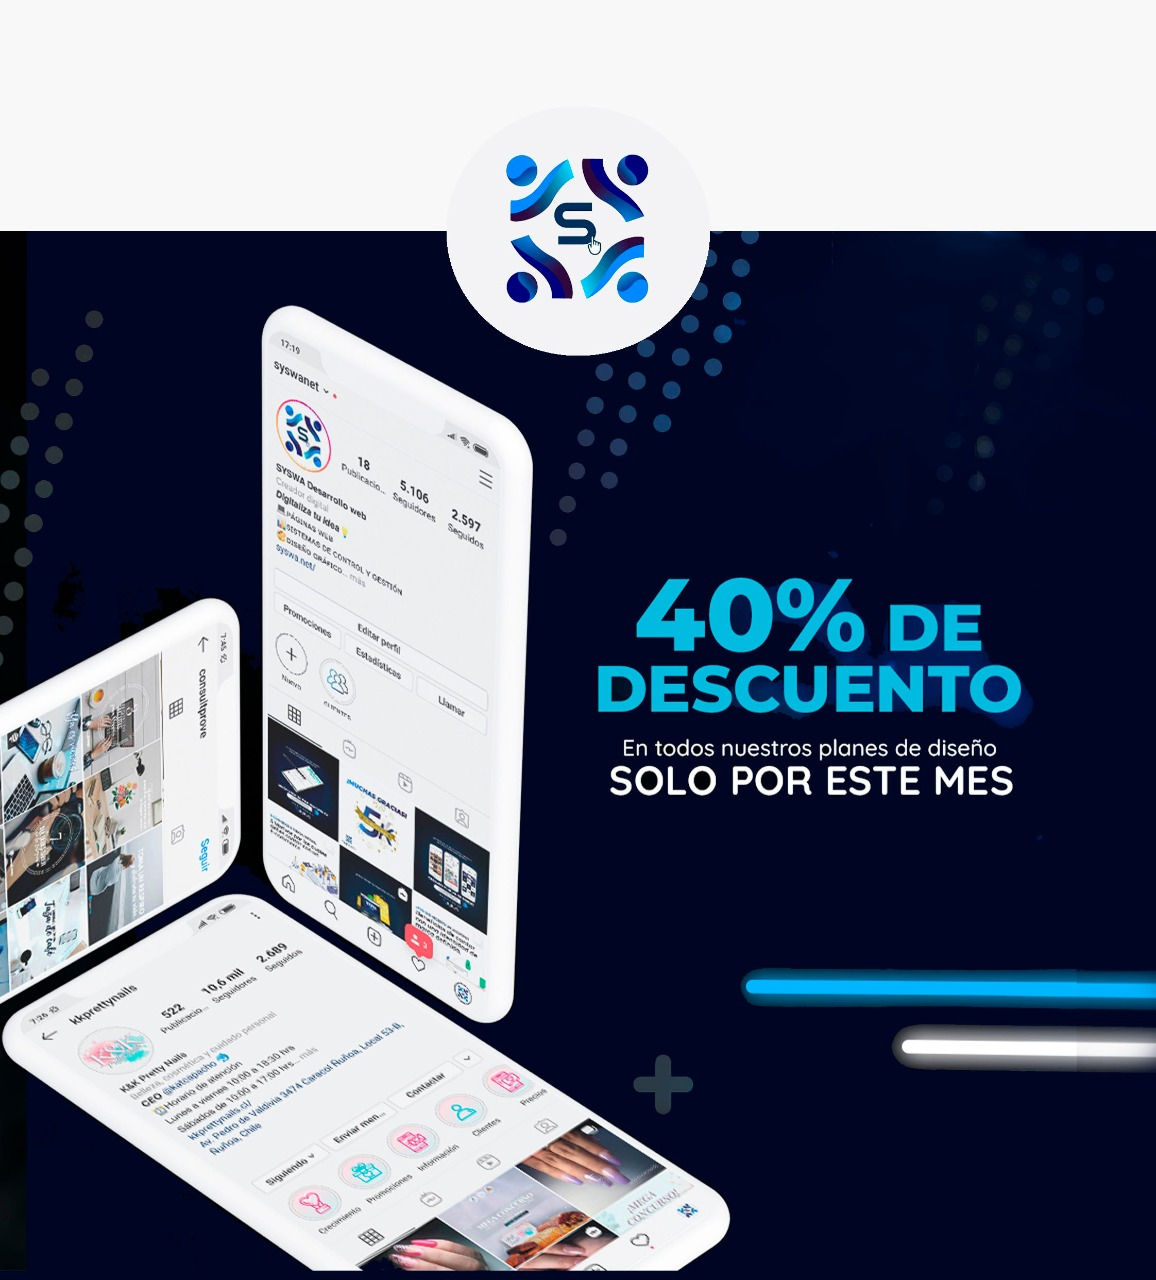
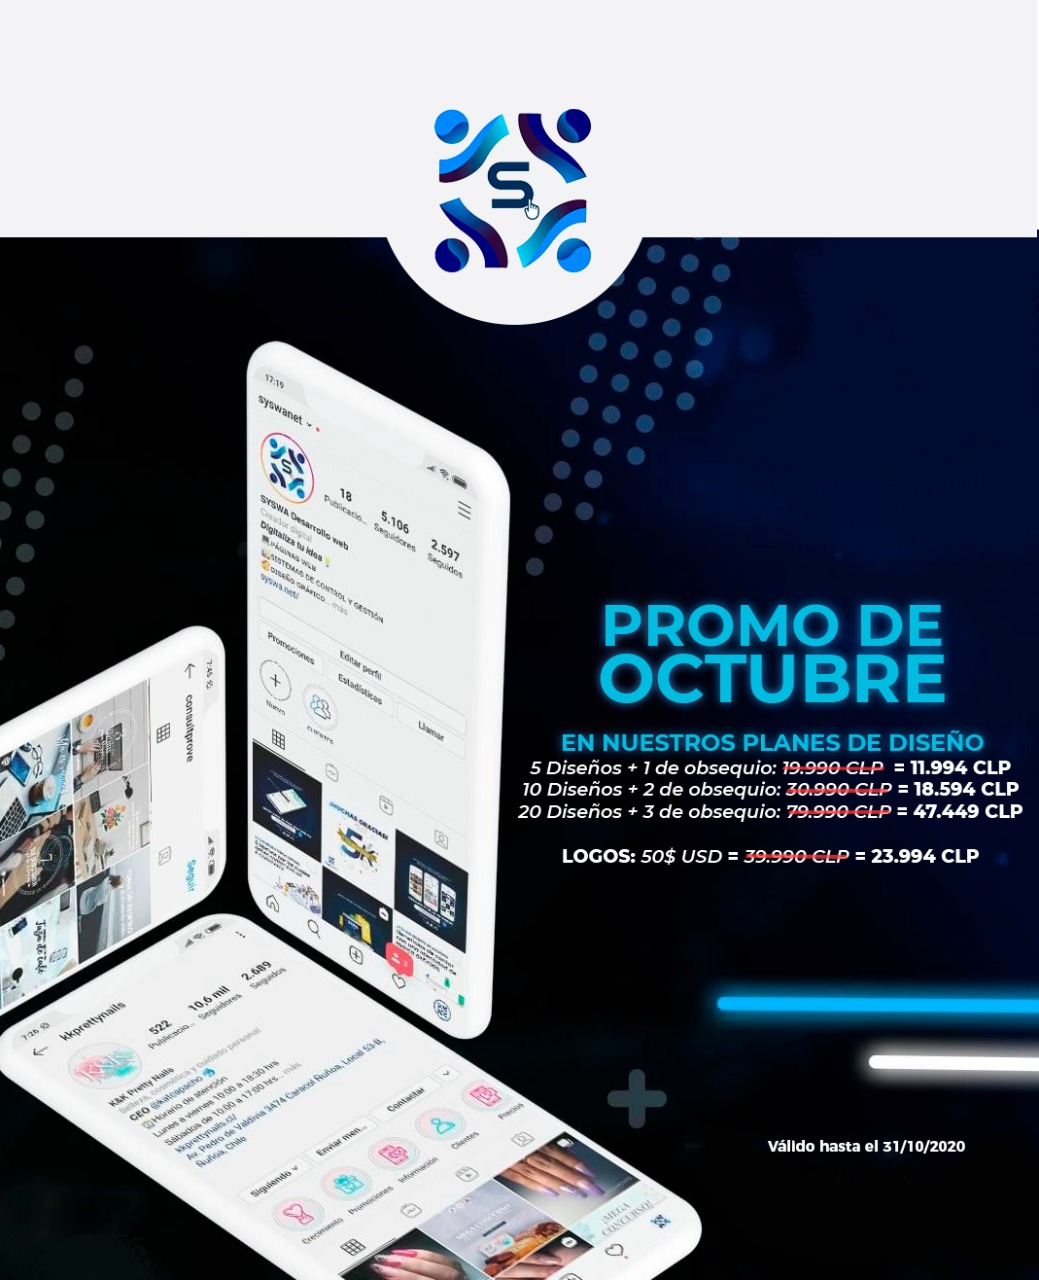
add change to promotion

diff --git a/routes/Clients.js b/routes/Clients.js
@@ -293,11 +293,12 @@ clients.post('/sendEmailsSyswa', async (req, res, next) => {
         res.send(err)
     }
 })
+// , angelacapacho64@gmail.com, cristiansleonardo@gmail.com, joqsua@gmail.com, simon.villasmil.rivero@gmail.com, ing.miguelpolanco92@gmail.com, joeyfunaro@gmail.com, pooja@rajentech.online, leannhilton@hiltonmgmt.com, s_speights@bellsouth.net, info@hiltonmgmt.com, erosvlahos@gmail.com
 
 clients.get('/sendPromotionSyswa', async (req, res) => {
     const mail = {
         from: "Syswa branding",
-        bcc: "carlos.gomes349@gmail.com, angelacapacho64@gmail.com, cristiansleonardo@gmail.com, joqsua@gmail.com, simon.villasmil.rivero@gmail.com, ing.miguelpolanco92@gmail.com, joeyfunaro@gmail.com, pooja@rajentech.online, leannhilton@hiltonmgmt.com, s_speights@bellsouth.net, info@hiltonmgmt.com, erosvlahos@gmail.com",
+        bcc: "carlos.gomes349@gmail.com",
         subject: "¡Imperdible! Aprovecha este 40% dcto. en nuestros servicios de diseño 🔥",
         html: `
             <!doctype html>
@@ -442,7 +443,7 @@ clients.get('/sendPromotionSyswa', async (req, res) => {
           <tr>
             <td style="width:600px;">
               
-      <img height="auto" src="https://s3-eu-west-1.amazonaws.com/topolio/uploads/5f6a6e46dec34/1600810616.jpg" style="border:0;display:block;outline:none;text-decoration:none;height:auto;width:100%;font-size:13px;" width="600">
+      <img height="auto" src="${imgMails}promotion.jpg" style="border:0;display:block;outline:none;text-decoration:none;height:auto;width:100%;font-size:13px;" width="600">
     
             </td>
           </tr>
@@ -586,7 +587,7 @@ clients.get('/sendPromotionSyswa', async (req, res) => {
       <table border="0" cellpadding="0" cellspacing="0" role="presentation" style="border-collapse:separate;width:auto;line-height:100%;">
         <tr>
           <td align="center" bgcolor="#00003A" role="presentation" style="border:0px solid #000;border-radius:5px;cursor:auto;mso-padding-alt:8px 40px 8px 40px;background:#00003A;" valign="middle">
-            <a href="https://instagram.com/syswanet?igshid=6n7g9jgq795g" style="display:inline-block;background:#00003A;color:#ffffff;font-family:Ubuntu, Helvetica, Arial, sans-serif, Helvetica, Arial, sans-serif;font-size:18px;font-weight:normal;line-height:100%;Margin:0;text-decoration:none;text-transform:none;padding:8px 40px 8px 40px;mso-padding-alt:0px;border-radius:5px;" target="_blank">
+            <a href="https://www.instagram.com/p/CGI72pUl5ub/" style="display:inline-block;background:#00003A;color:#ffffff;font-family:Ubuntu, Helvetica, Arial, sans-serif, Helvetica, Arial, sans-serif;font-size:18px;font-weight:normal;line-height:100%;Margin:0;text-decoration:none;text-transform:none;padding:8px 40px 8px 40px;mso-padding-alt:0px;border-radius:5px;" target="_blank">
               <div>&iexcl;COMIENZA YA!</div>
             </a>
           </td>
@@ -677,7 +678,7 @@ clients.get('/sendPromotionSyswa', async (req, res) => {
               
         <a href="mailto:syswainfo@gmail.com" target="_blank">
           
-      <img height="auto" src="https://s3-eu-west-1.amazonaws.com/topolio/uploads/5f6a6e46dec34/1600810634.jpg" style="border:0;display:block;outline:none;text-decoration:none;height:auto;width:100%;font-size:13px;" width="38">
+      <img height="auto" src="${imgMails}mails.png" style="border:0;display:block;outline:none;text-decoration:none;height:auto;width:100%;font-size:13px;" width="38">
     
         </a>
       
@@ -715,7 +716,7 @@ clients.get('/sendPromotionSyswa', async (req, res) => {
               
         <a href="https://www.instagram.com/syswanet/" target="_blank">
           
-      <img height="auto" src="https://s3-eu-west-1.amazonaws.com/topolio/uploads/5f6a6e46dec34/1600810643.jpg" style="border:0;display:block;outline:none;text-decoration:none;height:auto;width:100%;font-size:13px;" width="38">
+      <img height="auto" src="${imgMails}igs.png" style="border:0;display:block;outline:none;text-decoration:none;height:auto;width:100%;font-size:13px;" width="38">
     
         </a>
       
@@ -753,7 +754,7 @@ clients.get('/sendPromotionSyswa', async (req, res) => {
               
         <a href="https://api.whatsapp.com/send?phone=56985826974&text=&source=&data=&app_absent=" target="_blank">
           
-      <img height="auto" src="https://s3-eu-west-1.amazonaws.com/topolio/uploads/5f6a6e46dec34/1600810652.jpg" style="border:0;display:block;outline:none;text-decoration:none;height:auto;width:100%;font-size:13px;" width="38">
+      <img height="auto" src="${imgMails}wss.png" style="border:0;display:block;outline:none;text-decoration:none;height:auto;width:100%;font-size:13px;" width="38">
     
         </a>
       
@@ -791,7 +792,7 @@ clients.get('/sendPromotionSyswa', async (req, res) => {
               
         <a href="http://syswa.net/" target="_blank">
           
-      <img height="auto" src="https://s3-eu-west-1.amazonaws.com/topolio/uploads/5f6a6e46dec34/1600810704.jpg" style="border:0;display:block;outline:none;text-decoration:none;height:auto;width:100%;font-size:13px;" width="38">
+      <img height="auto" src="${imgMails}webs.png" style="border:0;display:block;outline:none;text-decoration:none;height:auto;width:100%;font-size:13px;" width="38">
     
         </a>
       
